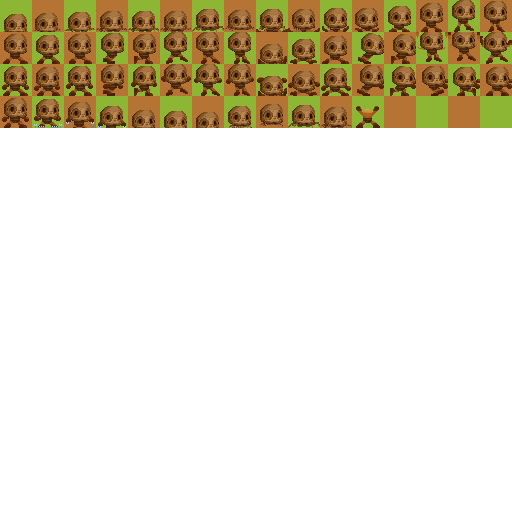
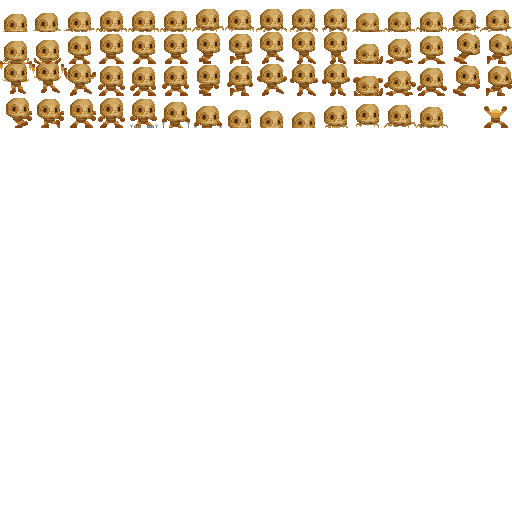
platform assets

Changed region(s): [[0.0, 0.0, 1.0, 0.25]]

diff --git a/src/scenes/Level5.js b/src/scenes/Level5.js
@@ -8,14 +8,13 @@ class Lvl5 extends Phaser.Scene {
       this.load.audio('teleport', './assets/teleport.wav');
 
       this.load.image('ground', './assets/monster.png');
-      this.load.image('platform1', './assets/platform1.png');
-      this.load.image('ground1', './assets/ground1.png');
-      this.load.image('platform2', './assets/platform2.png');
-      this.load.image('platform3', './assets/platform3.png');
-      this.load.image('platform4', './assets/platform4.png');
-      this.load.image('box1', './assets/box1.png');
-      this.load.spritesheet('player', './assets/Bug01.png', {frameWidth: 32, frameHeight: 32, startFrame: 0, endFrame: 3});
-    }
+      this.load.image('platform1', './assets/Platform84x252c.png');
+      this.load.image('ground1', './assets/Platform640x200c.png');
+      this.load.image('platform2', './assets/Platform252x42c.png');
+      this.load.image('platform3', './assets/Platform42x252c.png');
+      this.load.image('platform4', './assets/Platform99x12c.png');
+      this.load.image('box1', './assets/Platform42x42c.png');
+      this.load.spritesheet('player', './assets/Robotcopy.png', {frameWidth: 32, frameHeight: 32, startFrame: 0, endFrame: 3});    }
   
     create() {
       // variables and settings

diff --git a/src/scenes/Level6.js b/src/scenes/Level6.js
@@ -8,14 +8,13 @@ class Lvl6 extends Phaser.Scene {
       this.load.audio('teleport', './assets/teleport.wav');
 
       this.load.image('ground', './assets/monster.png');
-      this.load.image('platform1', './assets/platform1.png');
-      this.load.image('ground1', './assets/ground1.png');
-      this.load.image('platform2', './assets/platform2.png');
-      this.load.image('platform3', './assets/platform3.png');
-      this.load.image('platform4', './assets/platform4.png');
-      this.load.image('box1', './assets/box1.png');
-      this.load.spritesheet('player', './assets/Bug01.png', {frameWidth: 32, frameHeight: 32, startFrame: 0, endFrame: 3});
-    }
+      this.load.image('platform1', './assets/Platform84x252c.png');
+      this.load.image('ground1', './assets/Platform640x200c.png');
+      this.load.image('platform2', './assets/Platform252x42c.png');
+      this.load.image('platform3', './assets/Platform42x252c.png');
+      this.load.image('platform4', './assets/Platform99x12c.png');
+      this.load.image('box1', './assets/Platform42x42c.png');
+      this.load.spritesheet('player', './assets/Robotcopy.png', {frameWidth: 32, frameHeight: 32, startFrame: 0, endFrame: 3});   }
   
     create() {
       // variables and settings

diff --git a/src/scenes/Level3.js b/src/scenes/Level3.js
@@ -8,13 +8,13 @@ class Lvl3 extends Phaser.Scene {
       this.load.audio('teleport', './assets/teleport.wav');
 
       this.load.image('ground', './assets/monster.png');
-      this.load.image('platform1', './assets/platform1.png');
-      this.load.image('ground1', './assets/ground1.png');
-      this.load.image('platform2', './assets/platform2.png');
-      this.load.image('platform3', './assets/platform3.png');
-      this.load.image('platform4', './assets/platform4.png');
-      this.load.image('box1', './assets/box1.png');
-      this.load.spritesheet('player', './assets/Bug01.png', {frameWidth: 32, frameHeight: 32, startFrame: 0, endFrame: 3});
+      this.load.image('platform1', './assets/Platform84x252c.png');
+      this.load.image('ground1', './assets/Platform640x200c.png');
+      this.load.image('platform2', './assets/Platform252x42c.png');
+      this.load.image('platform3', './assets/Platform42x252c.png');
+      this.load.image('platform4', './assets/Platform88x12c.png');
+      this.load.image('box1', './assets/Platform42x42c.png');
+      this.load.spritesheet('player', './assets/Robotcopy.png', {frameWidth: 32, frameHeight: 32, startFrame: 0, endFrame: 3});
     }
 
     create() {

diff --git a/src/scenes/Level2.js b/src/scenes/Level2.js
@@ -8,12 +8,13 @@ class Lvl2 extends Phaser.Scene {
       this.load.audio('teleport', './assets/teleport.wav');
 
       this.load.image('ground', './assets/monster.png');
-      this.load.image('platform1', './assets/platform1.png');
-      this.load.image('ground1', './assets/ground1.png');
-      this.load.image('platform2', './assets/platform2.png');
-      this.load.image('platform3', './assets/platform3.png');
-      this.load.image('box1', './assets/box1.png');
-      this.load.spritesheet('player', './assets/Bug01.png', {frameWidth: 32, frameHeight: 32, startFrame: 0, endFrame: 3});
+      this.load.image('platform1', './assets/Platform84x252c.png');
+      this.load.image('ground1', './assets/Platform640x200c.png');
+      this.load.image('platform2', './assets/Platform252x42c.png');
+      this.load.image('platform3', './assets/Platform42x252c.png');
+      this.load.image('platform4', './assets/Platform99x12c.png');
+      this.load.image('box1', './assets/Platform42x42c.png');
+      this.load.spritesheet('player', './assets/Robotcopy.png', {frameWidth: 32, frameHeight: 32, startFrame: 0, endFrame: 3});
     }
   
     create() {

diff --git a/src/scenes/Level4.js b/src/scenes/Level4.js
@@ -8,9 +8,13 @@ class Lvl4 extends Phaser.Scene {
       this.load.audio('teleport', './assets/teleport.wav');
 
       this.load.image('ground', './assets/monster.png');
-      this.load.image('platform1', './assets/platform1.png');
-      this.load.spritesheet('player', './assets/Bug01.png', {frameWidth: 32, frameHeight: 32, startFrame: 0, endFrame: 3});
-    }
+      this.load.image('platform1', './assets/Platform84x252c.png');
+      this.load.image('ground1', './assets/Platform640x200c.png');
+      this.load.image('platform2', './assets/Platform252x42c.png');
+      this.load.image('platform3', './assets/Platform42x252c.png');
+      this.load.image('platform4', './assets/Platform99x12c.png');
+      this.load.image('box1', './assets/Platform42x42c.png');
+      this.load.spritesheet('player', './assets/Robotcopy.png', {frameWidth: 32, frameHeight: 32, startFrame: 0, endFrame: 3});    }
   
     create() {
       // variables and settings

diff --git a/src/scenes/Level1.js b/src/scenes/Level1.js
@@ -8,9 +8,14 @@ class Lvl1 extends Phaser.Scene {
       this.load.audio('teleport', './assets/teleport.wav');
 
       this.load.image('ground', './assets/monster.png');
-      this.load.image('platform1', './assets/platform1.png');
+      this.load.image('platform1', './assets/Platform84x252c.png');
+      this.load.image('ground1', './assets/Platform640x200c.png');
+      this.load.image('platform2', './assets/Platform252x42c.png');
+      this.load.image('platform3', './assets/Platform42x252c.png');
+      this.load.image('platform4', './assets/Platform99x12c.png');
+      this.load.image('box1', './assets/Platform42x42c.png');
       this.load.spritesheet('player', './assets/Robotcopy.png', {frameWidth: 32, frameHeight: 32, startFrame: 0, endFrame: 3});
-    }
+   }
 
     create() {
       // variables and settings
